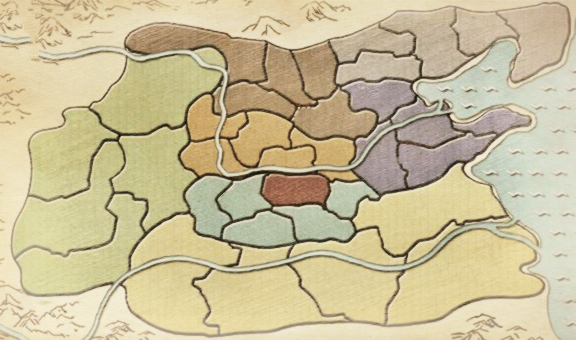
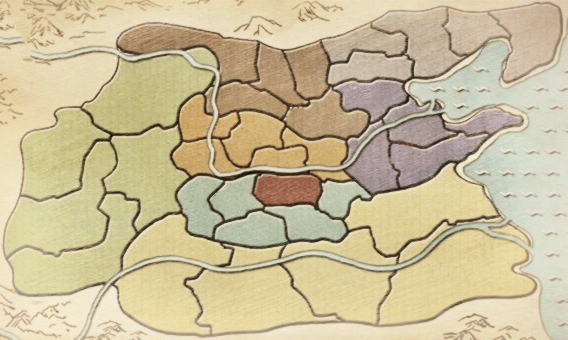
add states board

diff --git a/source/definition/city.js b/source/definition/city.js
@@ -3,41 +3,41 @@ Vue.mixin({
         getCitiesInfo: function() {
             return [
                 {code: 0, name: "云中", position: [380, 60], resource: [1], type: 2},
-                {code: 1, name: "雁门", position: [530, 120], resource: [1], type: 2},
-                {code: 2, name: "代郡", position: [605, 120], resource: [0], type: 2},
-                {code: 3, name: "太原", position: [455, 170], resource: [], type: 1},
-                {code: 4, name: "邯郸", position: [630, 210], resource: [0, 1], type: 0},
-                {code: 5, name: "上谷", position: [705, 60], resource: [1], type: 2},
-                {code: 6, name: "易水", position: [720, 115], resource: [], type: 1},
-                {code: 7, name: "蓟", position: [840, 55], resource: [0, 1], type: 0},
-                {code: 8, name: "辽西", position: [930, 35], resource: [1], type: 2},
+                {code: 1, name: "雁门", position: [515, 120], resource: [1], type: 2},
+                {code: 2, name: "代郡", position: [590, 120], resource: [0], type: 2},
+                {code: 3, name: "太原", position: [440, 170], resource: [1], type: 1},
+                {code: 4, name: "邯郸", position: [615, 210], resource: [0, 1], type: 0},
+                {code: 5, name: "上谷", position: [705, 50], resource: [1], type: 2},
+                {code: 6, name: "灵寿", position: [710, 105], resource: [1], type: 1},
+                {code: 7, name: "蓟", position: [825, 55], resource: [0, 1], type: 0},
+                {code: 8, name: "辽西", position: [915, 35], resource: [1], type: 2},
                 {code: 9, name: "辽东", position: [1040, 35], resource: [0], type: 2},
-                {code: 10, name: "陇西", position: [100, 285], resource: [], type: 1},
-                {code: 11, name: "北地", position: [280, 155], resource: [0], type: 2},
-                {code: 12, name: "蜀", position: [100, 425], resource: [1], type: 2},
+                {code: 10, name: "陇西", position: [80, 285], resource: [], type: 1},
+                {code: 11, name: "义渠", position: [280, 155], resource: [0], type: 2},
+                {code: 12, name: "蜀", position: [100, 425], resource: [1, 1], type: 2},
                 {code: 13, name: "巴", position: [100, 525], resource: [1], type: 2},
                 {code: 14, name: "咸阳", position: [270, 310], resource: [0, 1], type: 0},
-                {code: 15, name: "河东", position: [390, 230], resource: [1], type: 2},
-                {code: 16, name: "上党", position: [500, 235], resource: [], type: 1},
-                {code: 17, name: "濮阳", position: [635, 285], resource: [0], type: 2},
-                {code: 18, name: "山阳", position: [545, 300], resource: [1], type: 2},
-                {code: 19, name: "大梁", position: [660, 370], resource: [0,1], type: 0},
-                {code: 20, name: "平原", position: [740, 170], resource: [1], type: 2},
-                {code: 21, name: "临淄", position: [810, 220], resource: [0,1], type: 0},
-                {code: 22, name: "安阳", position: [725, 300], resource: [1], type: 2},
-                {code: 23, name: "琅琊", position: [830, 300], resource: [0], type: 2},
-                {code: 24, name: "即墨", position: [955, 220], resource: [], type: 1},
-                {code: 25, name: "渑池", position: [400, 295], resource: [0], type: 2},
-                {code: 26, name: "商", position: [375, 385], resource: [1], type: 2},
-                {code: 27, name: "宜阳", position: [455, 375], resource: [1], type: 2},
-                {code: 28, name: "郑", position: [505, 430], resource: [0, 1], type: 0},
-                {code: 29, name: "舞阳", position: [605, 430], resource: [], type: 1},
-                {code: 30, name: "洛阳", position: [560, 350], resource: [0, 0], type: 0},
-                {code: 31, name: "南郡", position: [315, 515], resource: [0], type: 2},
-                {code: 26, name: "南阳", position: [475, 555], resource: [1], type: 2},
-                {code: 26, name: "寿春", position: [675, 535], resource: [0, 1], type: 0},
-                {code: 26, name: "下邳", position: [825, 395], resource: [], type: 1},
-                {code: 26, name: "江东", position: [915, 515], resource: [1], type: 2},
+                {code: 15, name: "河东", position: [380, 230], resource: [1], type: 2},
+                {code: 16, name: "上党", position: [485, 230], resource: [0], type: 1},
+                {code: 17, name: "濮阳", position: [620, 285], resource: [0], type: 2},
+                {code: 18, name: "长平", position: [530, 290], resource: [1], type: 2},
+                {code: 19, name: "大梁", position: [650, 365], resource: [0,1], type: 0},
+                {code: 20, name: "饶安", position: [720, 170], resource: [1], type: 2},
+                {code: 21, name: "临淄", position: [790, 220], resource: [0,1], type: 0},
+                {code: 22, name: "定陶", position: [705, 300], resource: [1], type: 2},
+                {code: 23, name: "琅琊", position: [810, 300], resource: [0], type: 2},
+                {code: 24, name: "即墨", position: [935, 220], resource: [0], type: 1},
+                {code: 25, name: "渑池", position: [380, 295], resource: [0], type: 2},
+                {code: 26, name: "商", position: [355, 385], resource: [1], type: 2},
+                {code: 27, name: "安邑", position: [445, 375], resource: [1], type: 2},
+                {code: 28, name: "郑", position: [485, 430], resource: [0, 1], type: 0},
+                {code: 29, name: "陈", position: [585, 420], resource: [1], type: 1},
+                {code: 30, name: "洛阳", position: [550, 350], resource: [0, 0], type: 0},
+                {code: 31, name: "郢", position: [285, 515], resource: [0], type: 1},
+                {code: 32, name: "南阳", position: [475, 555], resource: [1], type: 2},
+                {code: 33, name: "寿春", position: [675, 535], resource: [0, 1], type: 0},
+                {code: 34, name: "下邳", position: [825, 395], resource: [0], type: 2},
+                {code: 35, name: "吴", position: [915, 515], resource: [1], type: 2},
             ];
         },
         getCityResourceIcon: function(code) {

diff --git a/ingame.html b/ingame.html
@@ -12,43 +12,45 @@
 	<body>
 		<script>
 			var data = {
+				player: [0, 1, 1, 1, 1, 1, 2, 1, 0],
+				power: [0, 5, 5, 5, 5, 5, 5, 5, 0],
 				cities: [
-					{occupy: 0, army: []},
-					{occupy: 0, army: []},
-					{occupy: 4, army: [0]},
-					{occupy: 0, army: []},
-					{occupy: 4, army: [4, 8]},
-					{occupy: 0, army: []},
-					{occupy: 0, army: []},
-					{occupy: 3, army: [3, 8]},
-					{occupy: 3, army: [0]},
-					{occupy: 0, army: []},
-					{occupy: 0, army: []},
-					{occupy: 7, army: [0]},
-					{occupy: 0, army: []},
-					{occupy: 0, army: []},
-					{occupy: 7, army: [7, 8]},
-					{occupy: 0, army: []},
-					{occupy: 0, army: []},
-					{occupy: 0, army: []},
-					{occupy: 6, army: [0]},
-					{occupy: 6, army: [6, 8]},
-					{occupy: 0, army: []},
-					{occupy: 1, army: [1, 8]},
-					{occupy: 0, army: []},
-					{occupy: 1, army: [0]},
-					{occupy: 0, army: []},
-					{occupy: 0, army: []},
-					{occupy: 0, army: []},
-					{occupy: 5, army: [0]},
-					{occupy: 5, army: [5, 8]},
-					{occupy: 0, army: []},
-					{occupy: 8, army: [0, 0]},
-					{occupy: 0, army: []},
-					{occupy: 0, army: []},
-					{occupy: 2, army: [2, 8]},
-					{occupy: 0, army: []},
-					{occupy: 2, army: [0]}
+					{code: 0, occupy: 0, army: []},
+					{code: 1, occupy: 0, army: []},
+					{code: 2, occupy: 4, army: [0]},
+					{code: 3, occupy: 0, army: []},
+					{code: 4, occupy: 4, army: [4, 8]},
+					{code: 5, occupy: 0, army: []},
+					{code: 6, occupy: 0, army: []},
+					{code: 7, occupy: 3, army: [3, 8]},
+					{code: 8, occupy: 3, army: [0]},
+					{code: 9, occupy: 0, army: []},
+					{code: 10, occupy: 0, army: []},
+					{code: 11, occupy: 7, army: [0]},
+					{code: 12, occupy: 0, army: []},
+					{code: 13, occupy: 0, army: []},
+					{code: 14, occupy: 7, army: [7, 8]},
+					{code: 15, occupy: 0, army: []},
+					{code: 16, occupy: 0, army: []},
+					{code: 17, occupy: 0, army: []},
+					{code: 18, occupy: 5, army: [0]},
+					{code: 19, occupy: 6, army: [6, 8]},
+					{code: 20, occupy: 0, army: []},
+					{code: 21, occupy: 1, army: [1, 8]},
+					{code: 22, occupy: 0, army: []},
+					{code: 23, occupy: 1, army: [0]},
+					{code: 24, occupy: 0, army: []},
+					{code: 25, occupy: 0, army: []},
+					{code: 26, occupy: 0, army: []},
+					{code: 27, occupy: 6, army: [0]},
+					{code: 28, occupy: 5, army: [5, 8]},
+					{code: 29, occupy: 0, army: []},
+					{code: 30, occupy: 8, army: [0]},
+					{code: 31, occupy: 0, army: []},
+					{code: 32, occupy: 0, army: []},
+					{code: 33, occupy: 2, army: [2, 8]},
+					{code: 34, occupy: 0, army: []},
+					{code: 35, occupy: 2, army: [0]}
 				],
 			};
 		</script>
@@ -63,12 +65,25 @@
 		    	</template>
 		    </main>
 		    <div id="map"></div>
+		    <aside>
+		    	<h4>States Info</h4>
+		    	<template v-for="(s, index) in getStatesInfo()" v-if="player[index]!==0">
+			    	<state-info
+			    		v-bind:definition="s"
+			    		v-bind:player="player[index]===2"
+			    		v-bind:data="statesInfo[index]"
+			    		v-bind:power="power"
+			    	>
+			    	</state-info>
+		    	</template>
+		    </aside>
 		</div>
 		<script type="text/javascript" src="vendor/vue.js"></script>
 		<script type="text/javascript" src="source/definition/state.js"></script>
 		<script type="text/javascript" src="source/definition/city.js"></script>
 		<script type="text/javascript" src="source/definition/army.js"></script>
 		<script type="text/javascript" src="source/component/city-info.js"></script>
+		<script type="text/javascript" src="source/component/state-info.js"></script>
 		<script type="text/javascript" src="source/epic.js"></script>
 	</body>
 </html>

diff --git a/source/component/state-info.js b/source/component/state-info.js
@@ -1,0 +1,103 @@
+Vue.component("state-info", {
+    props: ["definition", "player", "data", "power"],
+    template: `
+        <div v-bind:style="cardStyle">
+            <div v-bind:style="headerStyle">
+                <span v-bind:style="player?activeStyle:nameStyle">
+                    {{definition.name}}
+                </span>
+                <span v-bind:style="occupyStyle">
+                    都会 {{data.capital.length}} 城市 {{data.city.length}} 国库 {{power[definition.code]}}
+                </span>
+            </div>
+            <div v-bind:style="strengthStyle">
+                <span v-bind:style="armyStyle">
+                    兵力{{data.army.length}}
+                    <span v-if="player">
+                        - {{getArmyDetail()}}
+                    </span>
+                </span>
+            </div>
+        </div>
+    `,
+    methods: {
+        getArmyDetail() {
+            var a = 0, b = 0, c = 0, d = 0;
+            this.data.army.forEach(function(type) {
+                switch(type) {
+                    case 0:
+                        a += 1;
+                        break;
+                    case 8:
+                        b += 1;
+                        break;
+                    case "9":
+                        c += 1;
+                        break;
+                    default:
+                        d += 1;
+                        break;
+                }
+            }.bind(this));
+            return this.getArmyInfo()[0].name + " " + a + " " 
+                + this.getArmyInfo()[8].name + " " + b + " " 
+                + this.getArmyInfo()[9].name + " " + c + " "
+                + this.getArmyInfo()[this.definition.code].name + " " + d;
+        }
+    },
+    data: function() {
+        return {
+            control: [],
+            cardStyle: {
+                display: "block",
+                padding: "3px",
+                borderBottom: "3px solid black",
+                borderRadius: "5px"
+            },
+            headerStyle: {
+                display: "block",
+                borderBottom: "1px dashed lightgrey",
+                width: "80%",
+                paddingBottom: "3px"
+            },
+            nameStyle: {
+                display: "inline-block",
+                verticalAlign: "middel",
+                backgroundColor: "lightgrey",
+                fontSize: "14px",
+                minWidth: "20px",
+                height: "20px",
+                lineHeight: "20px",
+                borderRadius: "50%",
+                textAlign: "center"
+            },
+            activeStyle: {
+                display: "inline-block",
+                verticalAlign: "middel",
+                backgroundColor: this.definition.color,
+                color: "white",
+                fontSize: "14px",
+                minWidth: "20px",
+                height: "20px",
+                lineHeight: "20px",
+                borderRadius: "50%",
+                textAlign: "center"
+            },
+            occupyStyle: {
+                display: "inline-block",
+                verticalAlign: "middel",
+                color: "lightgrey",
+                fontSize: "12px",
+            },
+            strengthStyle: {
+                display: "block"
+            },
+            armyStyle: {
+                display: "inline-block",
+                verticalAlign: "middel",
+                color: "whitesmoke",
+                fontSize: "12px",
+            },
+        }  
+    },
+});

diff --git a/source/epic.js b/source/epic.js
@@ -1,9 +1,41 @@
 var app = new Vue({
     el: '#app',
     data: {
-        cities: data.cities
+        cities: data.cities,
+        player: data.player,
+        power: data.power
     },
-    methods: {
+    computed: {
+        statesInfo: function() {
+            var states = [], i = 0;
+            for (i; i < this.getStatesInfo().length; i++) {
+                states[i] = {
+                    capital: [],
+                    city: [],
+                    army: []
+                }
+            }
+            this.cities.forEach(function(city) {
+                if (this.getCitiesInfo()[city.code].type === 0) {
+                    states[city.occupy].capital.push(city.code);
+                } else if (this.getCitiesInfo()[city.code].type === 1) {
+                    states[city.occupy].city.push(city.code);
+                }
+                states[city.occupy].army = states[city.occupy].army.concat(city.army);
+            }.bind(this));
+            return states;
+            
+    
+            var total = 0;
+            this.cities.forEach(function(c) {
+                if (c.occupy === this.definition.code) {
+                    total += c.army.length;
+                }
+            }.bind(this));
+            return total;
 
+            
+            
+        }
     }
 });

diff --git a/public/general.css b/public/general.css
@@ -6,17 +6,39 @@ body{
 }
 
 main, #map{
-    width: 1152px;
+    width: 1136px;
     height: 680px;
     position: absolute;
     top: 0;
     left: 0;
     z-index: 1;
+    border: 4px solid darkslategrey;
 }
 
-#map {
+#map{
   background-image: url('../public/map.jpg');
   background-size: cover;
   opacity: 0.6;
   z-index: -1;   
+}
+
+aside{
+    position: absolute;
+    min-width: 210px;
+    background-color: brown;
+    min-height: 688px;
+    left: 1144px;
+    top: 0;
+    right: 0px;
+}
+
+aside h4{
+    text-align: center;
+    color: white;
+    font-size: 14px;
+    font-weight: normal;
+    background-color: black;
+    display: block;
+    padding: 5px 0;
+    margin: 0;
 }
